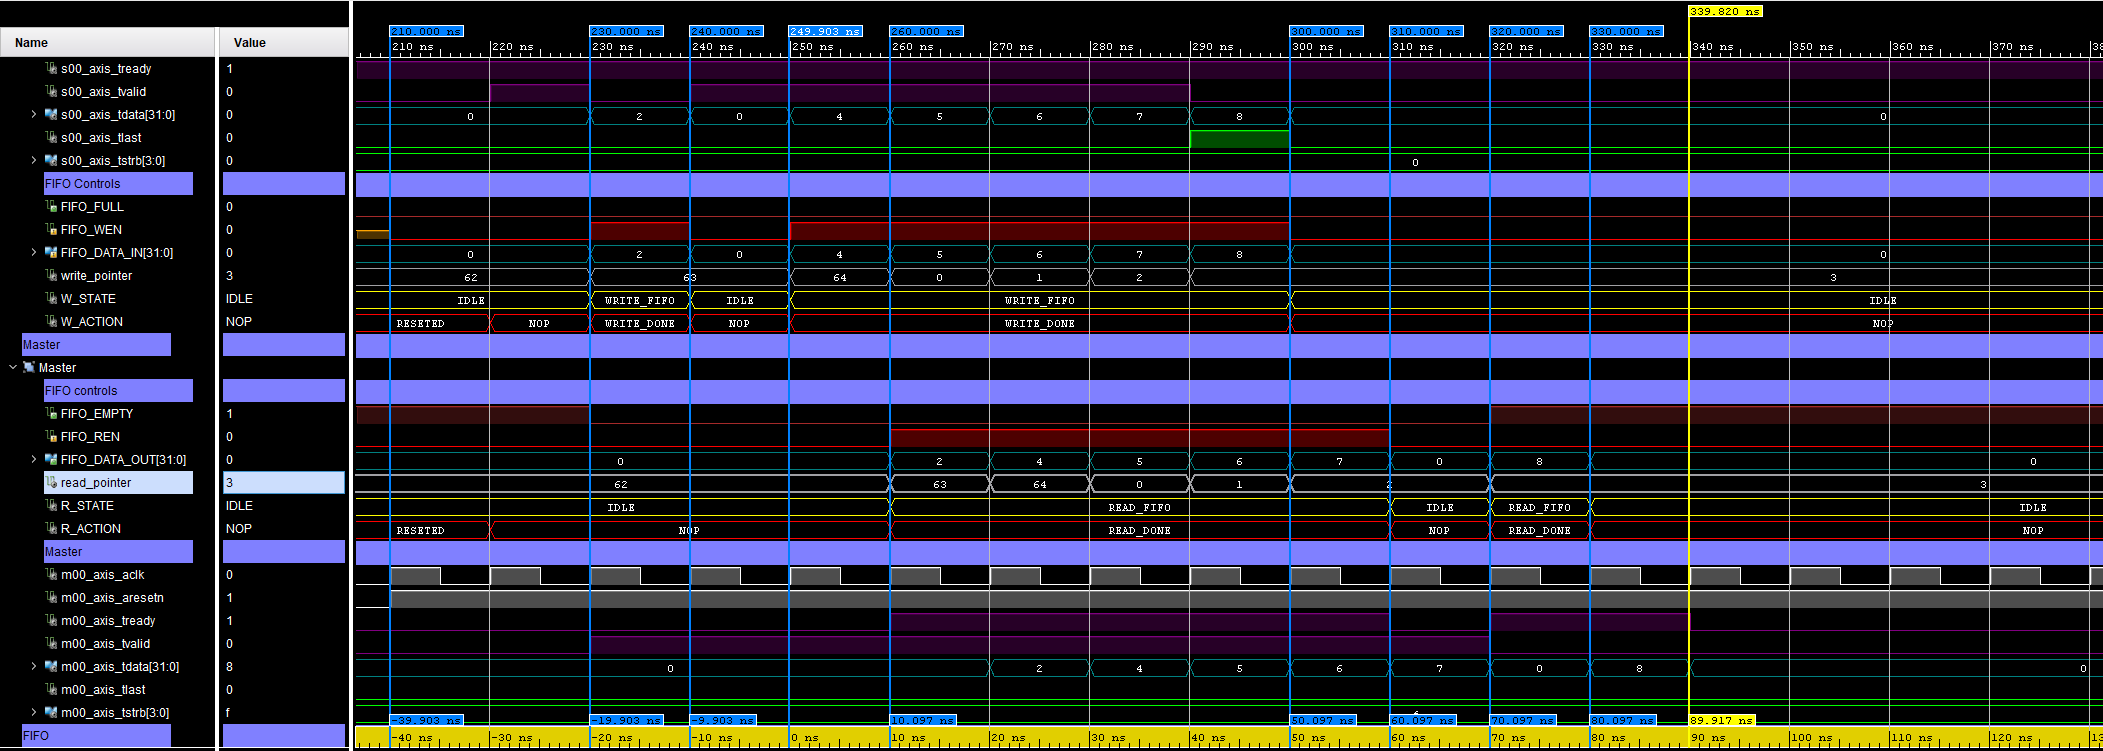
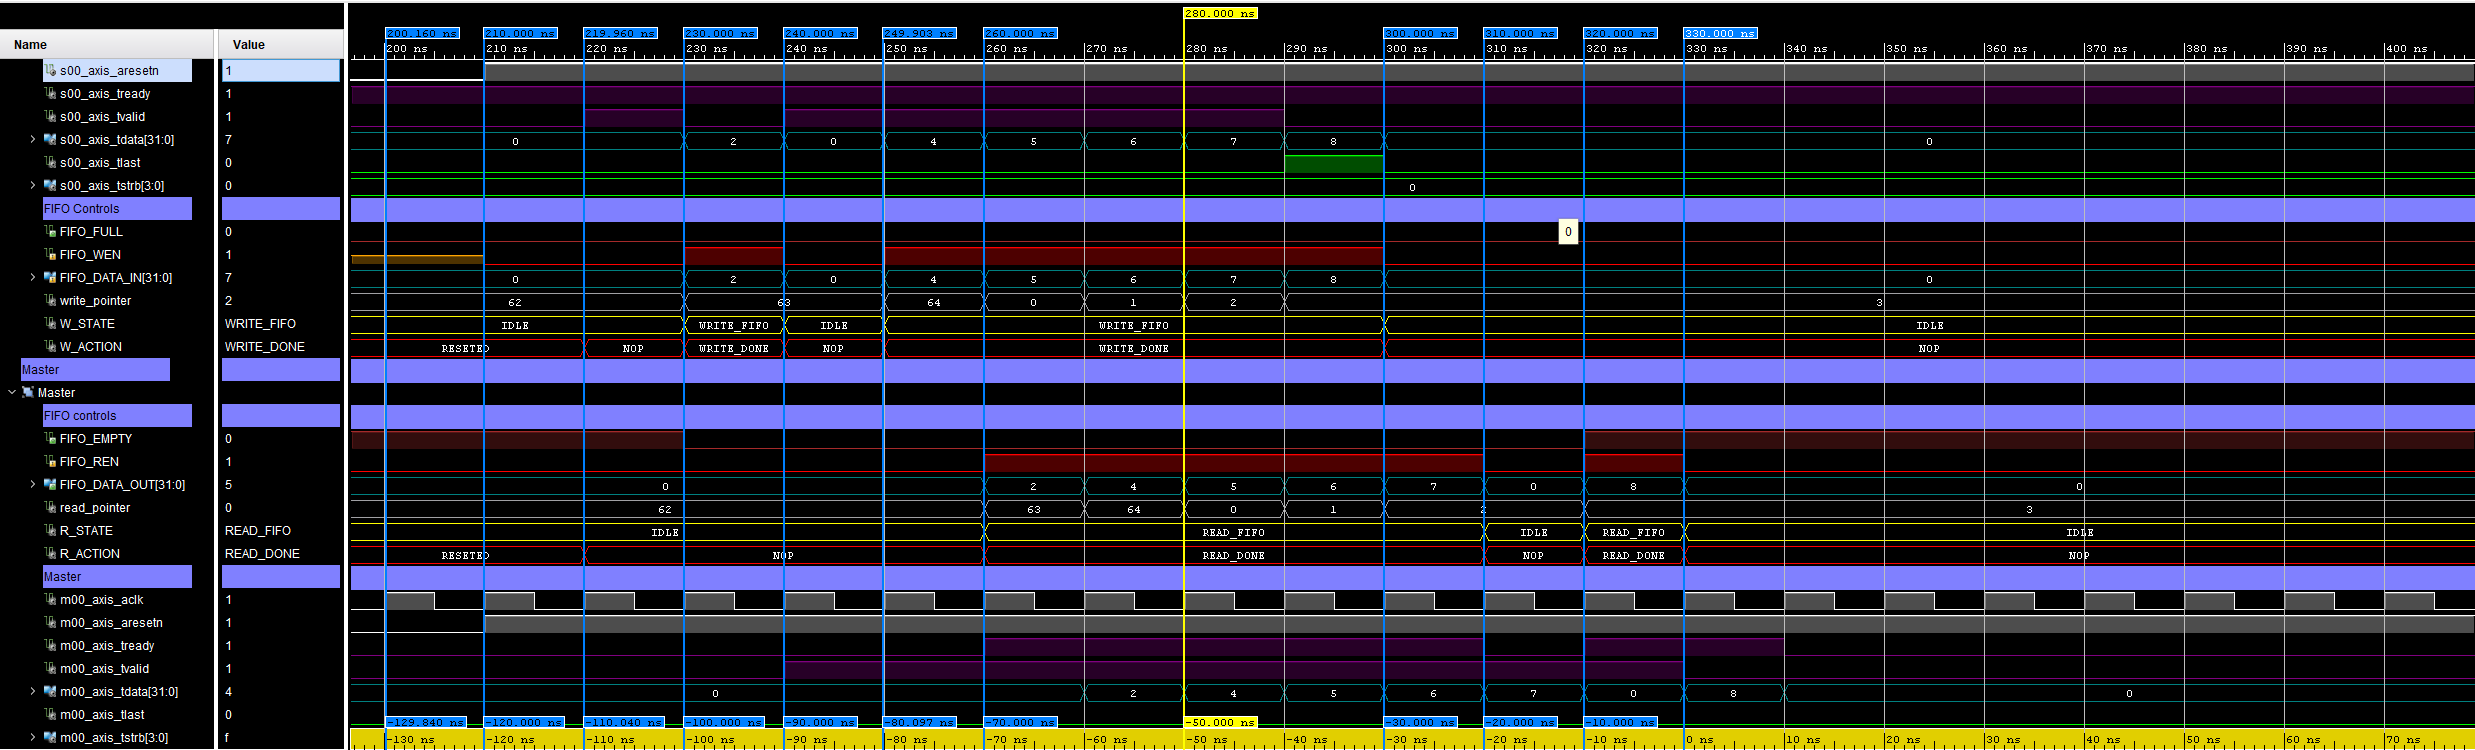
Simulation screenshots added (TODO test top module)

diff --git a/TODO.md b/TODO.md
@@ -1,7 +1,8 @@
 TODO LIST:
+./doc/sim update simulations
 
-IMPORTANT: FIFO lenght change (at this point is a 63 length FIFO)
 
 DONE:
 * change write pointer and read pointer --> to signals
 * Why empty signal is asserted in wrong situations
+* IMPORTANT: FIFO lenght change (at this point is a 63 length FIFO)
